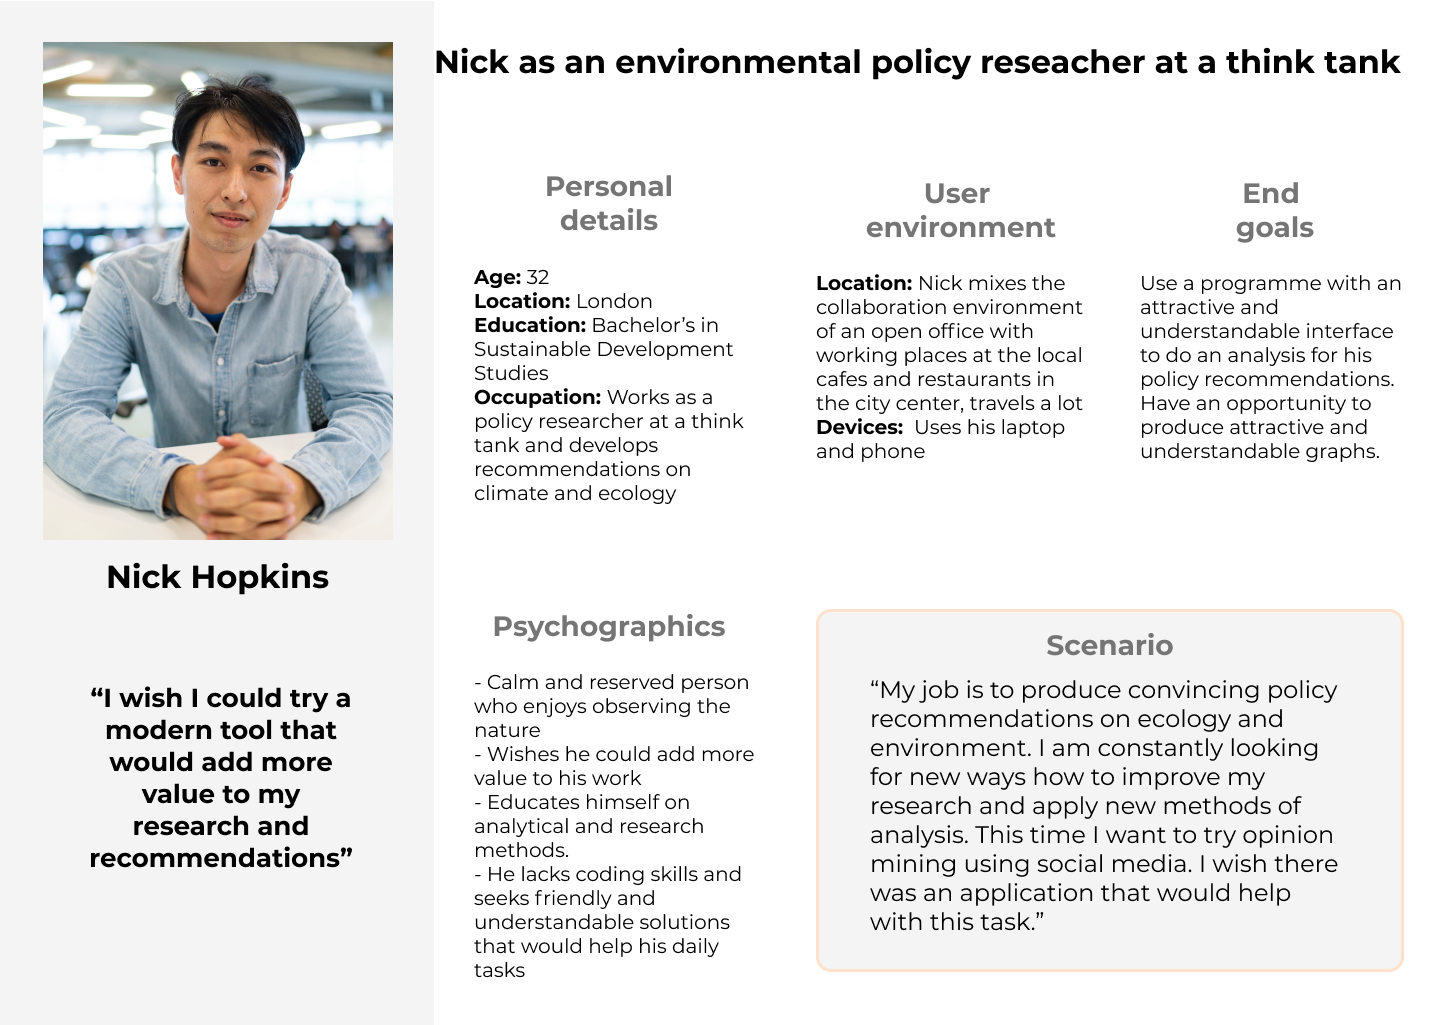
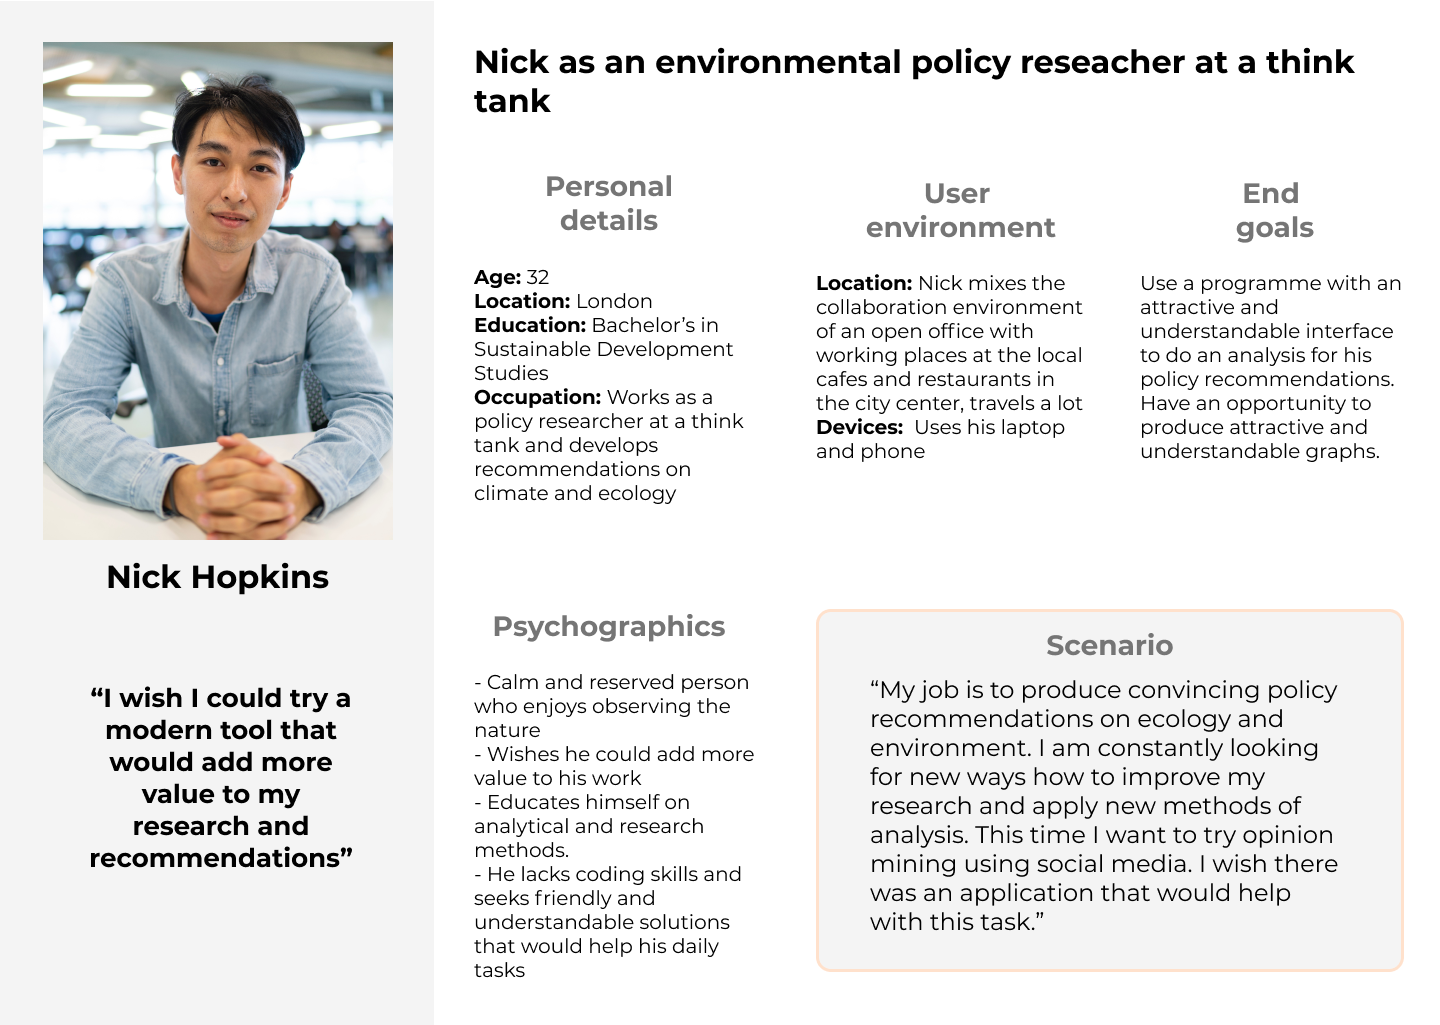
1

Changed region(s): [[0.3125, 0.0312, 0.9688, 0.1249]]

diff --git a/css/main.css b/css/main.css
@@ -34,7 +34,7 @@ ul{
 
 
 .container {
-    padding: .4rem 1.2em;
+    padding: .8rem 1.2em;
     max-width: 90%;
     margin: auto;
     display: block;
@@ -165,7 +165,7 @@ ul{
 .column {
     width: 50%;
     float: left;
-    padding-bottom: 10px;
+    padding-bottom: 5px;
    
 }
 
